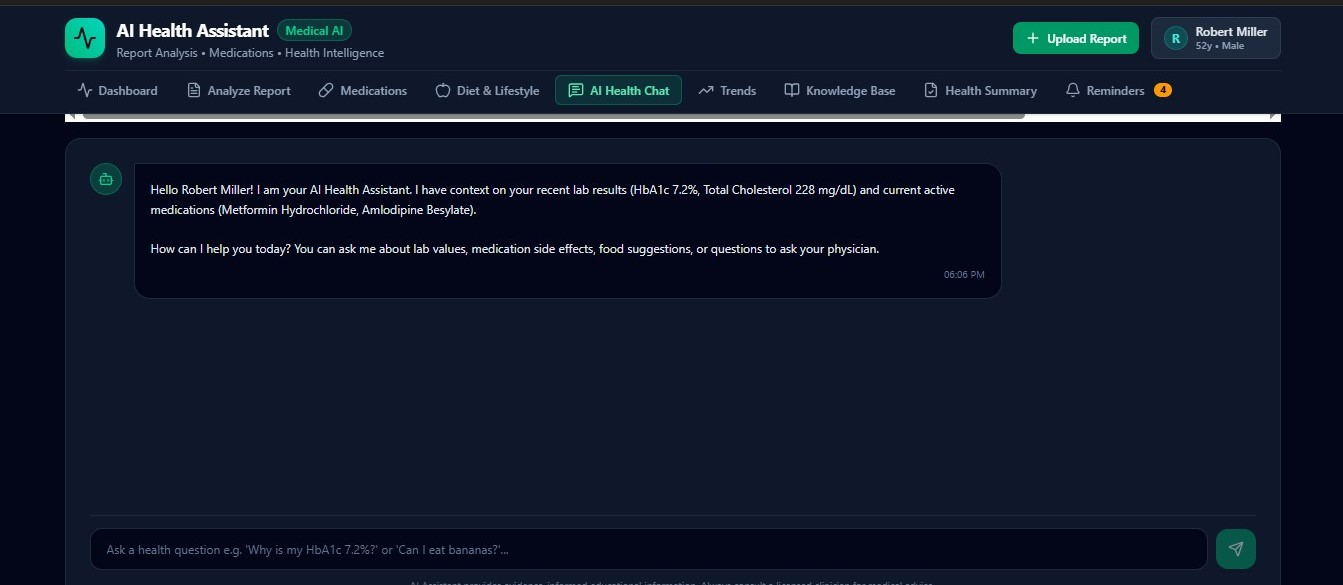
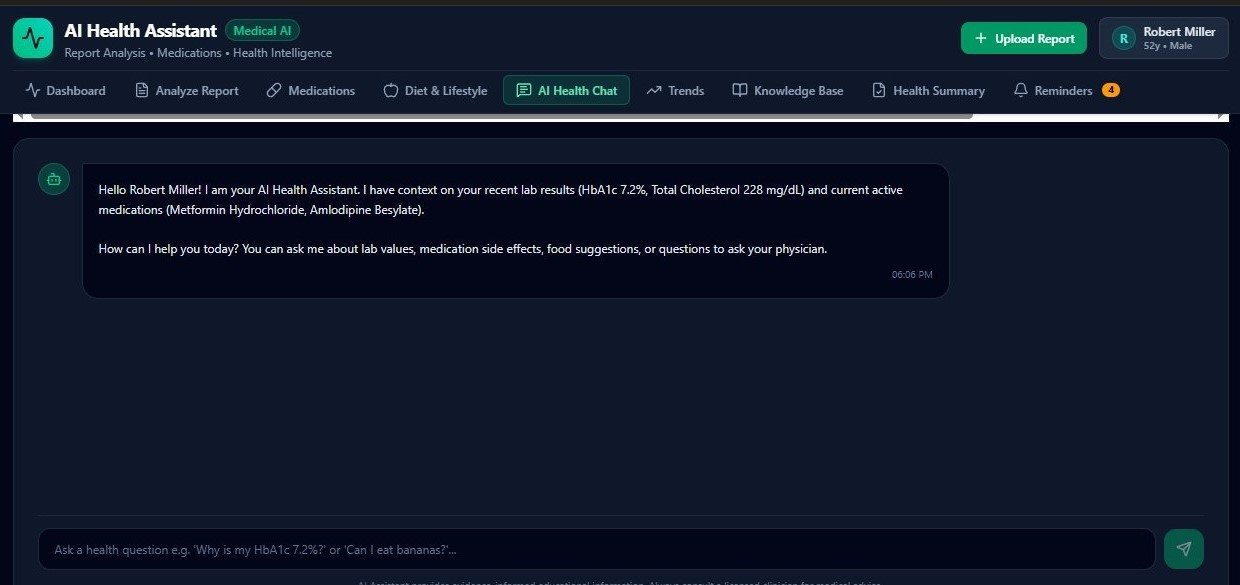
Screnshots Added for each

diff --git a/README.md b/README.md
@@ -4,25 +4,33 @@
 
 SCREENSHOTS:
 
+           DASHBOARD
 ![AI Health Assistant Dashboard](public/screenshots/dashboard.jpg)
 
-
+           TRENDS
 ![AI Health Assistant Trends](public/screenshots/Trends.jpg)
 
-
+           REPORT
 ![AI Health Assistant Analyse Report](public/screenshots/Analyse_Report.jpg)
-
+ 
+           HEALTH CHAT
 ![AI Health Assistant Health Chat](public/screenshots/Health_chat.jpg)
 
+            KNOWLEDGE BASE
 ![AI Health Assistant Knowledge Base](public/screenshots/Knowledge_Base.jpg)
 
+           REMINDERS
 ![AI Health Assistant Reminders](public/screenshots/Reminders.jpg)
 
+
+         MEDICATION
 ![AI Health Assistant Medication](public/screenshots/Medication.jpg)
 
+         SUMMARY
 
 ![AI Health Assistant Health Summary](public/screenshots/Health_summary.jpg)
 
+         PERSONALIZED NUTRITION
 
 ![AI Health Assistant Personalized Nutrition](public/screenshots/Personalized_nutrition.jpg)
 
